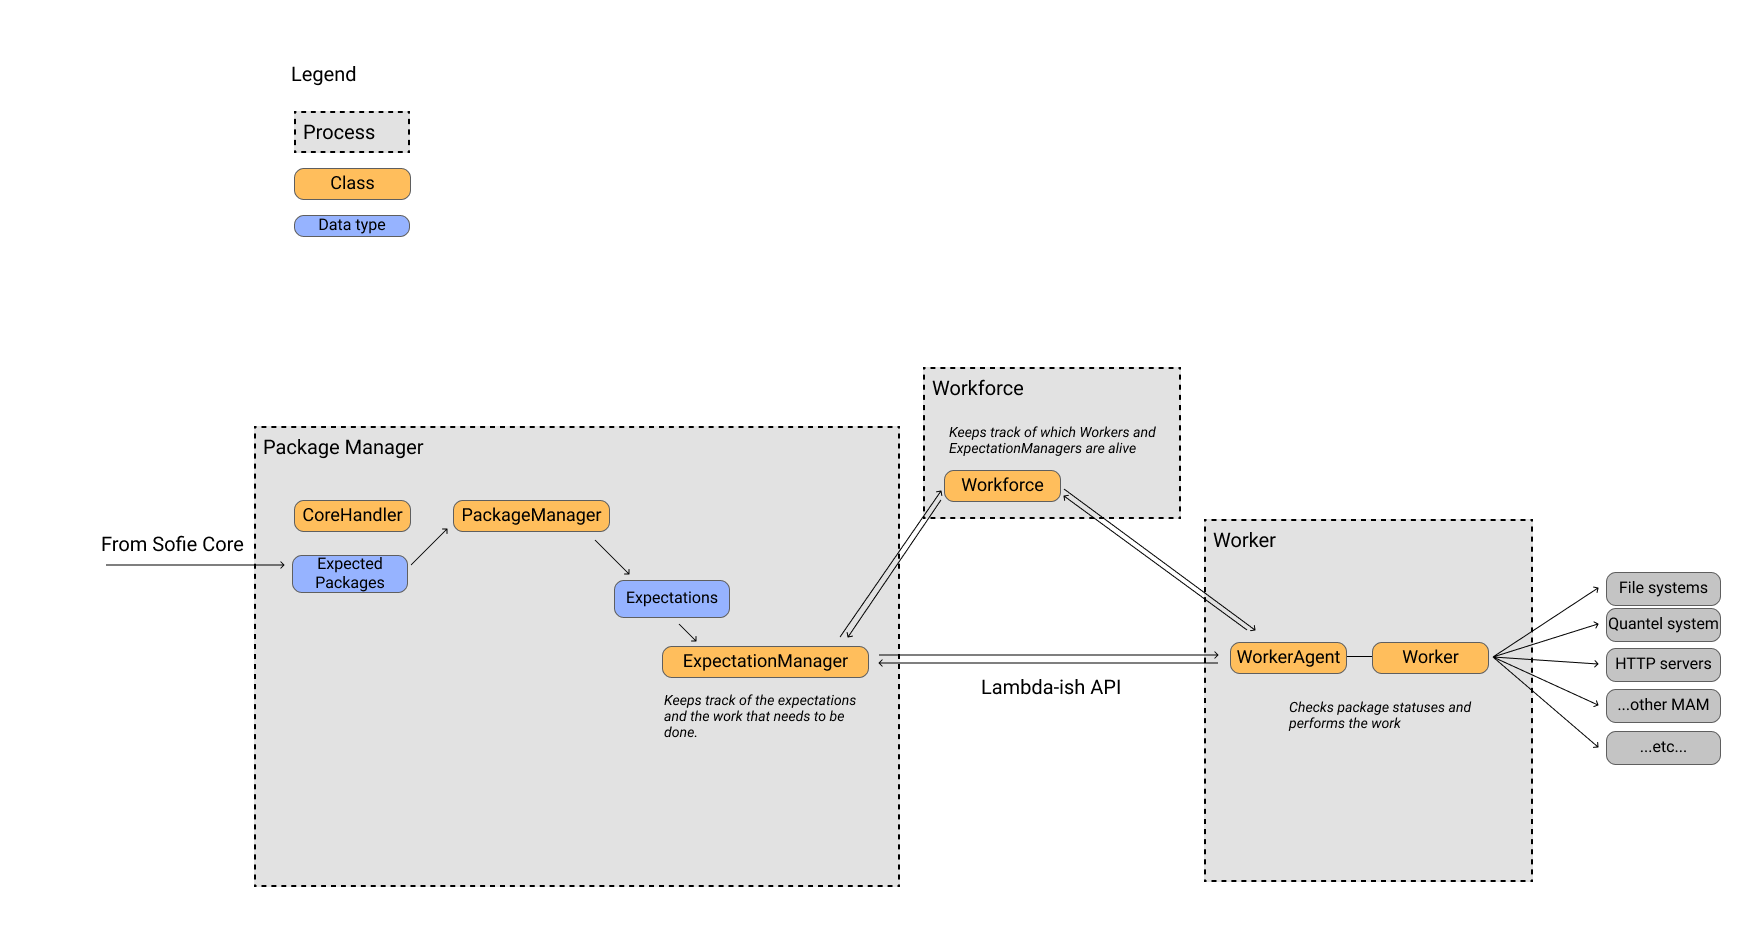
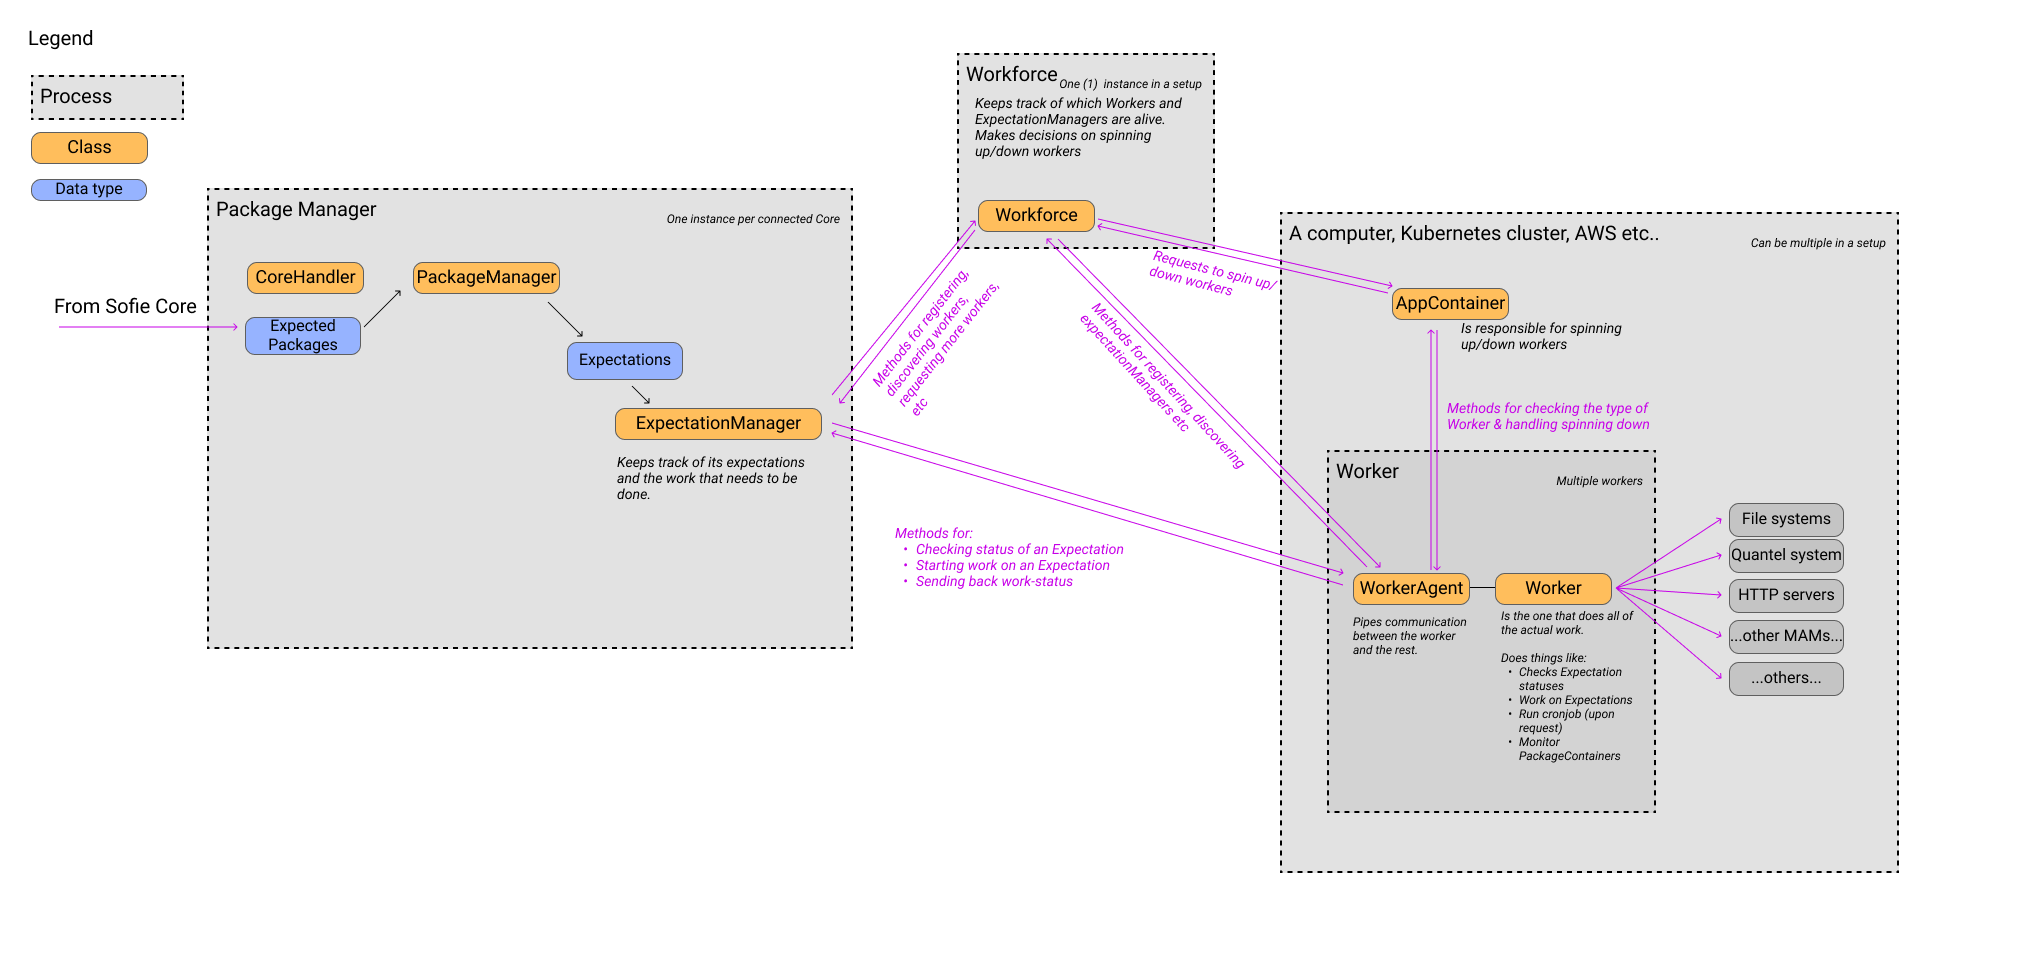
chore: doc

diff --git a/FOR_DEVELOPERS.md b/FOR_DEVELOPERS.md
@@ -9,12 +9,17 @@ This document contains documentation intended for developers of this repo.
 _Note: There can be only one (1) Workforce in a setup._
 
 The Workforce keeps track of which `ExpectationManagers` and `Workers` are online, and mediates the contact between the two.
+The Workforce is responsible for making sure more `Workers` are spun up (by `AppContainers`) if needed.
 
-_Future functionality: The Workforce is responsible for tracking the total workload and spin up/down workers accordingly._
+## AppContainer
+
+_Note: There can be multiple AppContainers in a setup_
+
+The `AppContainer` is reponsible for spinning up/down `Workers`, and restarting them if they crashes. It allows for having a unified API for several types of computing resources, such as physical computers, Kubernetes clusters (not implemented yet), or some other type of computing cluster.
 
 ## Package Manager
 
-_Note: There can be multiple Package Managers in a setup_
+_Note: There can be multiple Package Managers in a setup (usually one per Sofie-Core)_
 
 The Package Manager receives [Packages](#packages) from [Sofie Core](https://github.com/nrkno/tv-automation-server-core) and generates [Expectations](#expectations) from them.
 
@@ -63,6 +68,11 @@ It is intended to provide a simple way of serving for example preview-files to t
 
 The Single App is a special process which runs one of each of the above, all in the same process.
 It is intended to be used as a simple deployment and for deveoplemnt/debugging.
+
+## Quantel HTTP Transformer Proxy
+
+This is a small application intended to fix an issue in the Quantel HTTP Transformer, causing streamed content to not work properly.
+It works as a proxy http server, pointed at the original Quantel HTTP Transformer.
 
 # Data structure & key concepts
 
